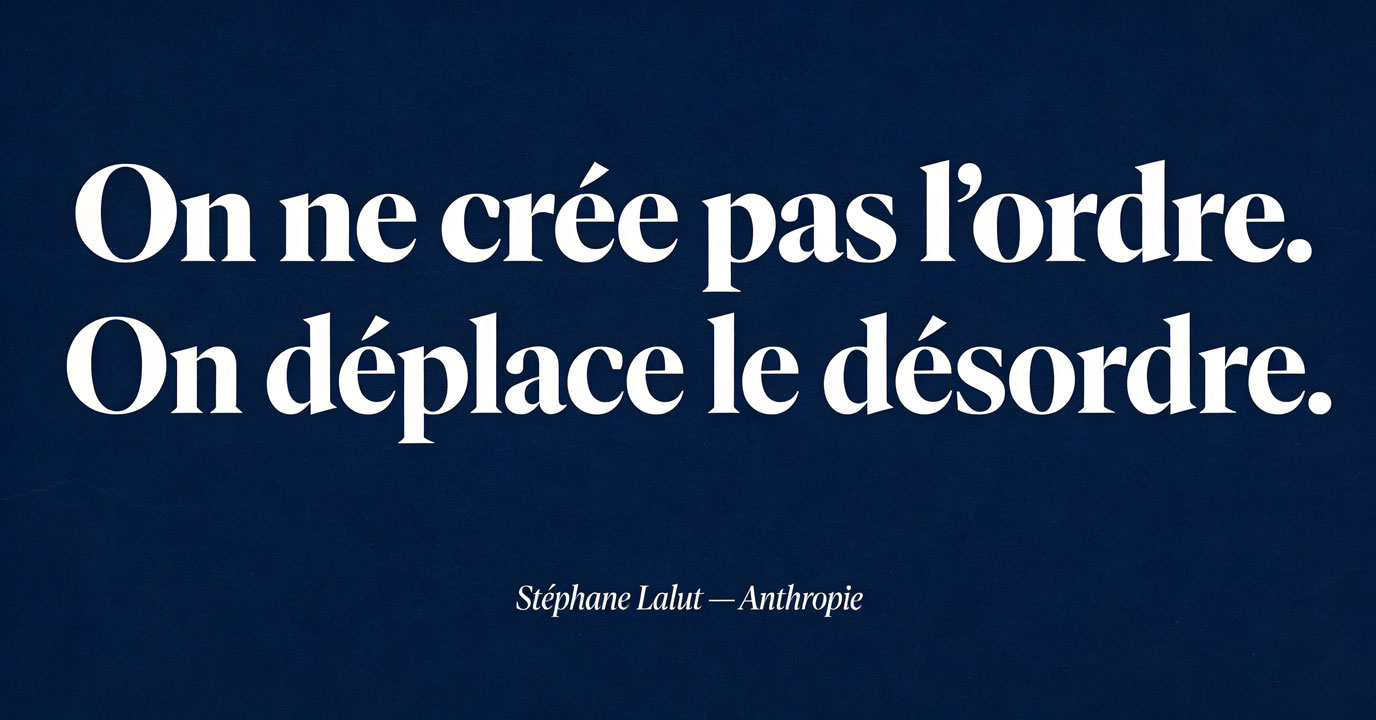
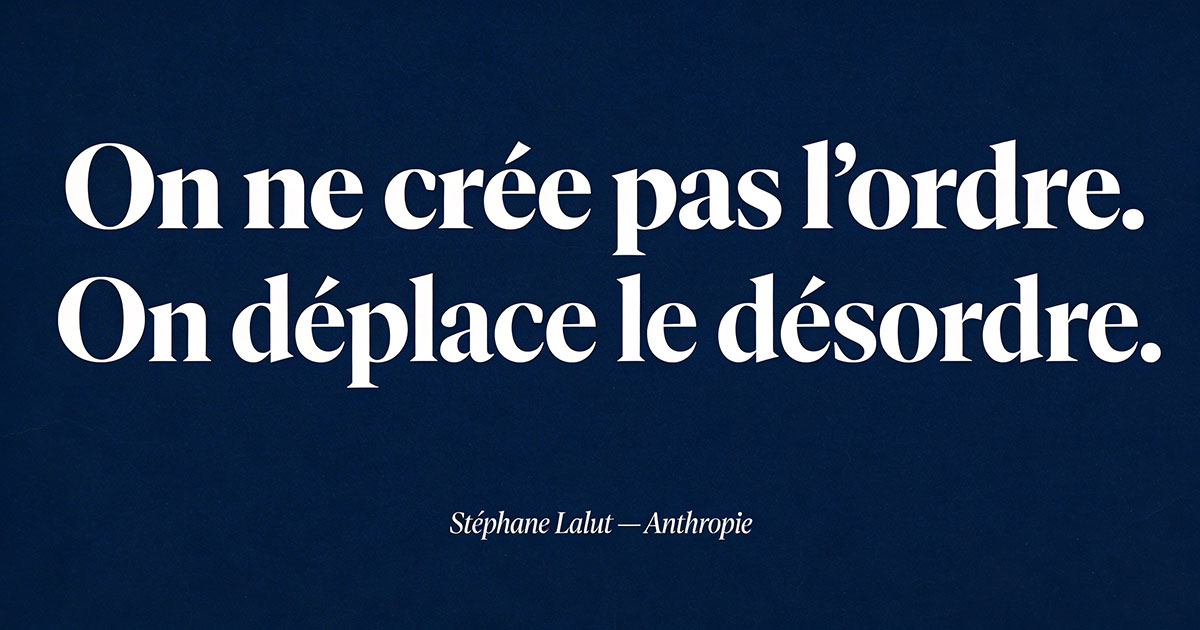
fix(og): image redimensionnée à 1200x630 conforme aux specs

diff --git a/layouts/partials/head.html b/layouts/partials/head.html
@@ -26,8 +26,8 @@
 <meta property="og:image" content="{{ "images/og-image.jpg" | absURL }}">
 <meta property="og:image:secure_url" content="{{ "images/og-image.jpg" | absURL }}">
 <meta property="og:image:type" content="image/jpeg">
-<meta property="og:image:width" content="1376">
-<meta property="og:image:height" content="720">
+<meta property="og:image:width" content="1200">
+<meta property="og:image:height" content="630">
 <meta property="og:image:alt" content="Stéphane Lalut — Anthropie : on ne crée pas l'ordre, on déplace le désordre.">
 
 <!-- Twitter Card -->
